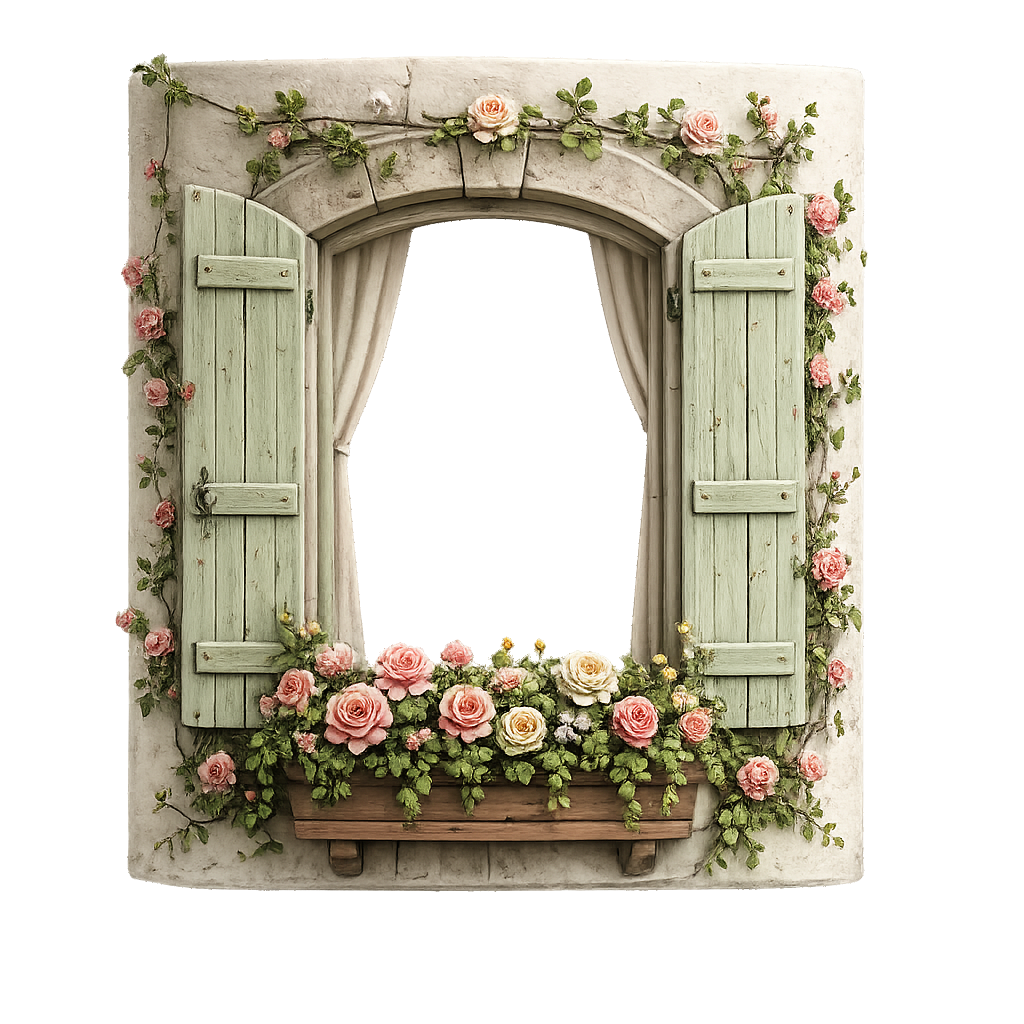
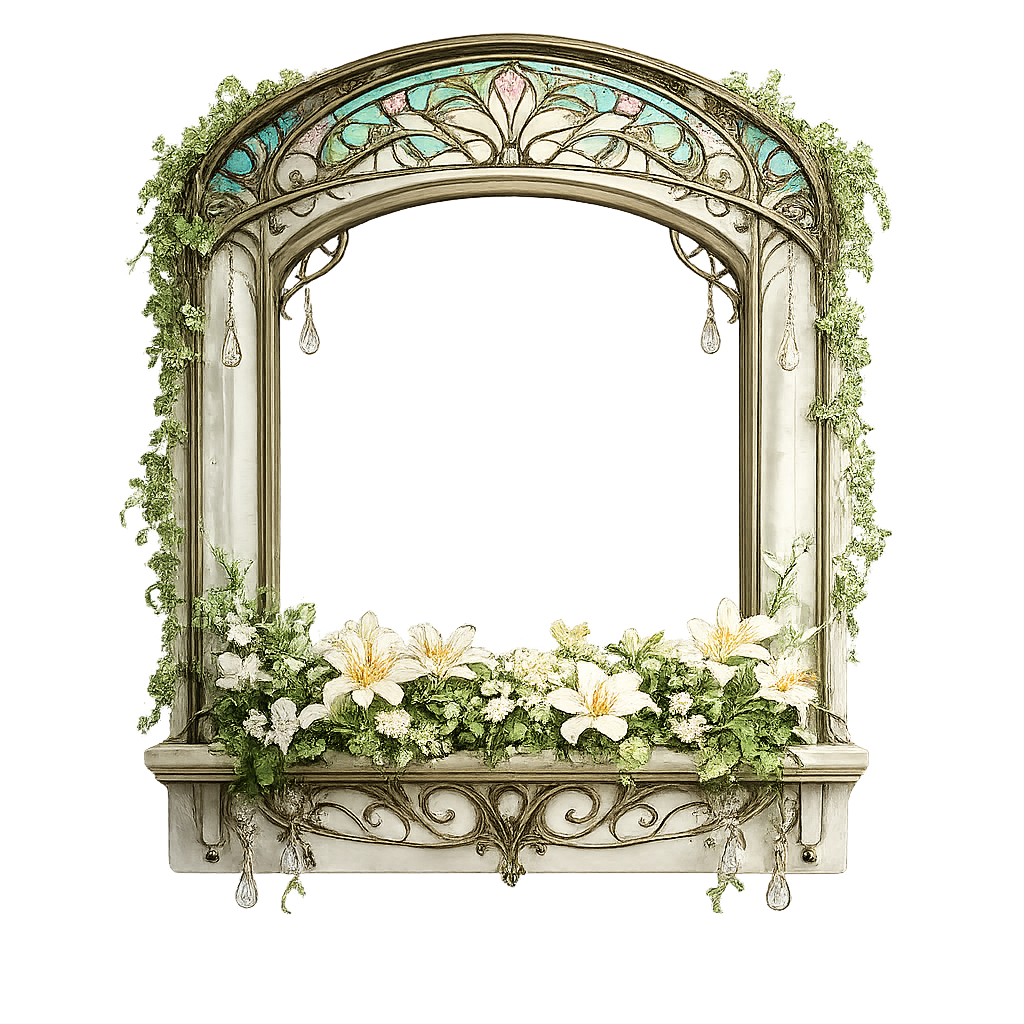
Add files via upload

diff --git a/needles-studio.html b/needles-studio.html
@@ -1541,7 +1541,7 @@ const FRAME_CATALOG = {
   "Window Sill": { type:"imageMulti", colorable:false, options:[
     { name:"Rustic Farmhouse", asset:"frame-window-sill-a.png" },
     { name:"Parisian Balcony", asset:"frame-window-sill-b.png" },
-    { name:"Rose Garden", asset:"frame-window-sill-c.png" },
+    { name:"Stained Glass Garden", asset:"frame-window-sill-c.png" },
     { name:"Coastal Cottage", asset:"frame-window-sill-d.png" },
     { name:"English Cottage", asset:"frame-window-sill-e.png" },
     { name:"Southwest Adobe", asset:"frame-window-sill-f.png" },
